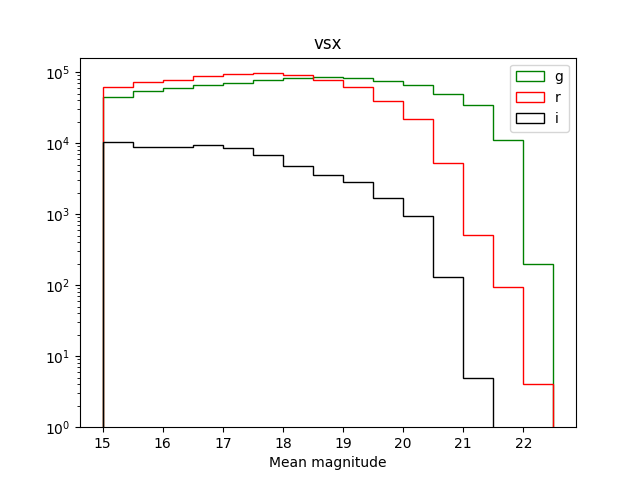
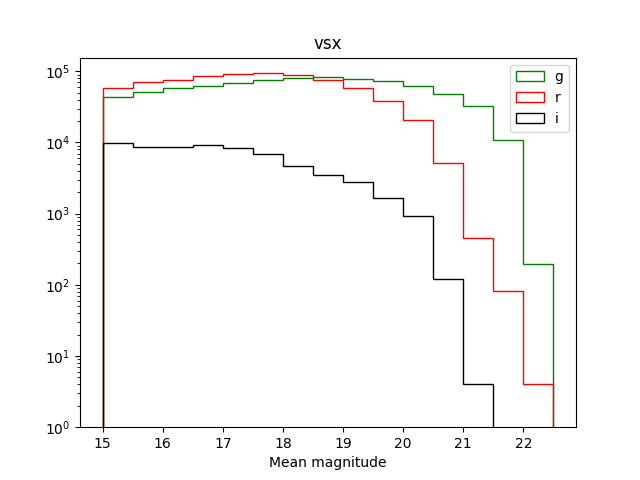
Plot variable type charts
Also filter VSX data

diff --git a/ch_vars/plot.py b/ch_vars/plot.py
@@ -1,9 +1,11 @@
 import logging
 import os
 from argparse import ArgumentParser
-from functools import partial
+from dataclasses import dataclass
+from functools import partial, reduce
 from itertools import chain
-from urllib.parse import urljoin
+from operator import and_
+from typing import Callable, Optional
 
 import matplotlib; matplotlib.use('Agg')
 import matplotlib.pyplot as plt
@@ -11,12 +13,51 @@ import numpy as np
 import pandas as pd
 
 
-FILE_NAMES = {
-    'sdss-candidates': 'ztf-sdss.csv.xz',
-    'sdss-vars': 'ztf-sdss-vars.csv.xz',
-    'asassn': 'ztf-asassn.csv.xz',
-    'vsx': 'ztf-vsx.csv.xz',
+@dataclass(frozen=True, eq=False)
+class VarTypeColumn:
+    name: str
+    converter: Callable = str
+
+    def __repr__(self):
+        return self.name
+
+
+@dataclass(frozen=True, eq=False)
+class Catalog:
+    @staticmethod
+    def none_mask(*_args, **_kwargs):
+        return slice(None)
+
+    filename: str
+    var_type_column: VarTypeColumn
+    mask: Callable = none_mask
+
+
+CATALOGS = {
+    'sdss-vars': Catalog(
+        filename='ztf-sdss-vars.csv.xz',
+        var_type_column=VarTypeColumn('bhatti_vartype'),
+    ),
+    'sdss-candidates': Catalog(
+        filename='ztf-sdss.csv.xz',
+        var_type_column=VarTypeColumn('segue_tags'),
+    ),
+    'asassn': Catalog(
+        filename='ztf-asassn.csv.xz',
+        var_type_column=VarTypeColumn('asassn_type'),
+    ),
+    'vsx': Catalog(
+        filename='ztf-vsx.csv.xz',
+        var_type_column=VarTypeColumn(
+            'type',
+            # Take main type only
+            converter=lambda s: s.split('/', maxsplit=1)[0],
+        ),
+        # : and | are uncertainty flags and + is for multiple types
+        mask=lambda table: ~table['var_type'].str.contains(r'[:|+]', regex=True, na=False),
+    ),
 }
+
 
 BAND_NAMES = {
     1: 'g',
@@ -30,6 +71,12 @@ COLORS = {
     3: 'black',
 }
 
+VAR_TYPE_THRESHOLDS = (
+    {1: 50, 2: 50, 3: 0},
+    {1: 100, 2: 100, 3: 0},
+    {1: 50, 2: 50, 3: 50},
+)
+
 MAGN_BINS = np.arange(15, 23, 0.5)
 OBS_COUNT_BINS = np.arange(0, 2000, 25)
 
@@ -40,11 +87,17 @@ def str_to_array(s, dtype=float):
 
 def load_data(catalog, data_path):
     logging.info(f'Loading data for {catalog}')
-    path = os.path.join(data_path, FILE_NAMES[catalog])
-    cols = ('mag', 'filter',)
-    converters = dict.fromkeys(cols, str_to_array)
+    cat = CATALOGS[catalog]
+    path = os.path.join(data_path, cat.filename)
+    array_cols = ('mag', 'filter',)
+    converters = dict.fromkeys(array_cols, str_to_array)
     converters['filter'] = partial(str_to_array, dtype=np.uint8)
-    table = pd.read_csv(path, usecols=cols, converters=converters)
+    converters[cat.var_type_column.name] = cat.var_type_column.converter
+    na_values = {cat.var_type_column.name: ()}
+    cols = (cat.var_type_column.name,) + array_cols
+    table = pd.read_csv(path, usecols=cols, converters=converters, na_values=na_values,)
+    table.rename(columns={cat.var_type_column.name: 'var_type'}, inplace=True, errors='raise')
+    table = table[cat.mask(table)]
     return table
 
 
@@ -64,14 +117,24 @@ def plot_mean_mag(table, catalog, fig_path, bands=tuple(BAND_NAMES)):
     plt.close()
 
 
+def obs_count_column_name(band):
+    band_name = BAND_NAMES[band]
+    return f'obs_count_{band_name}'
+
+
 def plot_obs_count(table, catalog, fig_path, bands=tuple(BAND_NAMES)):
     logging.info(f'Plotting observation count histogram for {catalog}')
     plt.title(catalog)
     plt.xlabel('Observation count')
     plt.yscale('log')
     for band in bands:
-        data = [np.count_nonzero(fltr == band) for fltr in table['filter']]
-        plt.hist(data, bins=OBS_COUNT_BINS, color=COLORS[band], histtype='step', label=BAND_NAMES[band])
+        plt.hist(
+            table[obs_count_column_name(band)],
+            bins=OBS_COUNT_BINS,
+            color=COLORS[band],
+            histtype='step',
+            label=BAND_NAMES[band],
+        )
     plt.xlim([1.0, None])
     plt.ylim([1.0, None])
     plt.legend()
@@ -81,15 +144,62 @@ def plot_obs_count(table, catalog, fig_path, bands=tuple(BAND_NAMES)):
     plt.close()
 
 
+def plot_var_types_chart(table, catalog, fig_path):
+    logging.info(f'Plotting variable types chart for {catalog}')
+
+    var_types, counts = np.unique(table['var_type'], return_counts=True)
+    x = np.arange(var_types.shape[0])
+    coords = dict(zip(var_types, x))
+    logging.debug(f'{coords}')
+
+    fig, ax = plt.subplots(figsize=(24, 12), dpi=300)
+
+    ax.set_title(catalog)
+    ax.set_ylabel('Count')
+    ax.set_yscale('log')
+    width = 0.8
+    ax.bar(x, counts, width=width, label='all')
+    for threshold in VAR_TYPE_THRESHOLDS:
+        width *= 0.8
+        idx = reduce(
+            and_,
+            (table[obs_count_column_name(band)] >= min_value for band, min_value in threshold.items()),
+        )
+        var_types_sub, counts_sub = np.unique(table['var_type'][idx], return_counts=True)
+        x_sub = [coords[v] for v in var_types_sub]
+        ax.bar(
+            x_sub,
+            counts_sub,
+            width=width,
+            label=', '.join(rf'$N_{BAND_NAMES[band]} \geq {v:d}$' for band, v in threshold.items()),
+        )
+    ax.set_ylim([1, None])
+    ax.set_xticks(x)
+    ax.set_xticklabels(var_types, rotation='vertical')
+    ax.legend()
+
+    path = os.path.join(fig_path, f'{catalog}_var-types.png')
+    logging.info(f'Saving figure to {path}')
+    fig.savefig(path)
+    plt.close(fig)
+
+
 def plot(catalog, data_path, fig_path):
     table = load_data(catalog, data_path=data_path)
+
     bands = sorted(set(chain.from_iterable(table['filter'])))
+    for band in bands:
+        table[obs_count_column_name(band)] = [np.count_nonzero(fltr == band) for fltr in table['filter']]
+
     plot_mean_mag(table, catalog, fig_path=fig_path, bands=bands)
     plot_obs_count(table, catalog, fig_path=fig_path, bands=bands)
+    plot_var_types_chart(table, catalog, fig_path=fig_path)
 
 
 def parse_args():
     parser = ArgumentParser('Plot statistics on cross-matched objects')
+    parser.add_argument('-c', '--cat', default=tuple(CATALOGS), nargs='+', choices=CATALOGS,
+                        help='catalogs to use')
     parser.add_argument('-d', '--data', default='https://static.rubin.science/',
                         help='data root, could be local path or HTTP URL (URL IS BROKEN FOR VSX DUE TO AN ISSUE WITH PANDAS)')
     parser.add_argument('-f', '--fig', default='.', help='folder to save figures')
@@ -101,7 +211,8 @@ def main():
     logging.basicConfig(level=logging.DEBUG)
 
     cli_args = parse_args()
+    logging.debug(f'{cli_args = }')
     os.makedirs(cli_args.fig, exist_ok=True)
 
-    for catalog in FILE_NAMES:
+    for catalog in cli_args.cat:
         plot(catalog, data_path=cli_args.data, fig_path=cli_args.fig)

diff --git a/README.md b/README.md
@@ -13,8 +13,11 @@ This project is dedicated to obtain an ML training set of ZTF variable star ligh
 
 ![ASAS-SN mean magnitude histogram](figs/asassn_mean_mag.png)
 ![ASAS-SN observation count histogram](figs/asassn_obs_count.png)
+![ASAS-SN variable types chart](figs/asassn_var-types.png)
 
-This repo contains a copy of the catalogue dated by 2019-10-20 at `/ch_vars/data/asassn-catalog-20191020.csv.bz2`. The catalogue is filtered to contain objects with `class_probability > 0.9`. Cross-matching is performed to find ZTF objects within 1 arcsec from ASAS-SN objects and with difference of mean ZTF `g` magnitude and ASAS-SN `V` magnitude not large than ASAS-SN `V` magnitude amplitude plus unity.
+This repo contains a copy of the catalogue dated by 2019-10-20 at `/ch_vars/data/asassn-catalog-20191020.csv.bz2`.
+The catalogue is filtered to contain objects with `class_probability > 0.9`.
+Cross-matching is performed to find ZTF objects within 1 arcsec from ASAS-SN objects and with difference of mean ZTF `g` magnitude and ASAS-SN `V` magnitude not large than ASAS-SN `V` magnitude amplitude plus unity.
 
 ##### [SDSS Stripe 82](https://wbhatti.org/notes/stripe82-variables-drnotes.html)
 
@@ -34,7 +37,8 @@ This repo contains a copy of the catalogue dated by 2019-10-20 at `/ch_vars/data
 ![SDSS candidates mean magnitude histogram](figs/sdss-candidates_mean_mag.png)
 ![SDSS candidates observation count histogram](figs/sdss-candidates_obs_count.png)
 
-Two data-sets obtained by 1 arcsec cross-matching of classified (the first link) and unclassified (the second link) variables found by Waqas Bhatti in SDSS Stripe 82 data. The list of classified variables contain 1162 objects while unclassified list (which is almost a superset of the classified) contains 45 822 objects. 
+Two data-sets obtained by 1 arcsec cross-matching of classified (the first link) and unclassified (the second link) variables found by Waqas Bhatti in SDSS Stripe 82 data.
+The list of classified variables contain 1162 objects while unclassified list (which is almost a superset of the classified) contains 45 822 objects. 
 
 
 ##### [AAVSO VSX](https://www.aavso.org/vsx/)
@@ -45,5 +49,6 @@ Two data-sets obtained by 1 arcsec cross-matching of classified (the first link
 
 ![VSX mean magnitude histogram](figs/vsx_mean_mag.png)
 ![VSX observation count histogram](figs/vsx_obs_count.png)
+![VSX variable types chart](figs/vsx_var-types.png)
 
 2020-10-05 version of VSX from Vizier is used. All VSX objects with minimum magnitude brighter 12 and maximum magnitude brighter 10 are filtered. 1 arcsec cross-matching is performed. 
